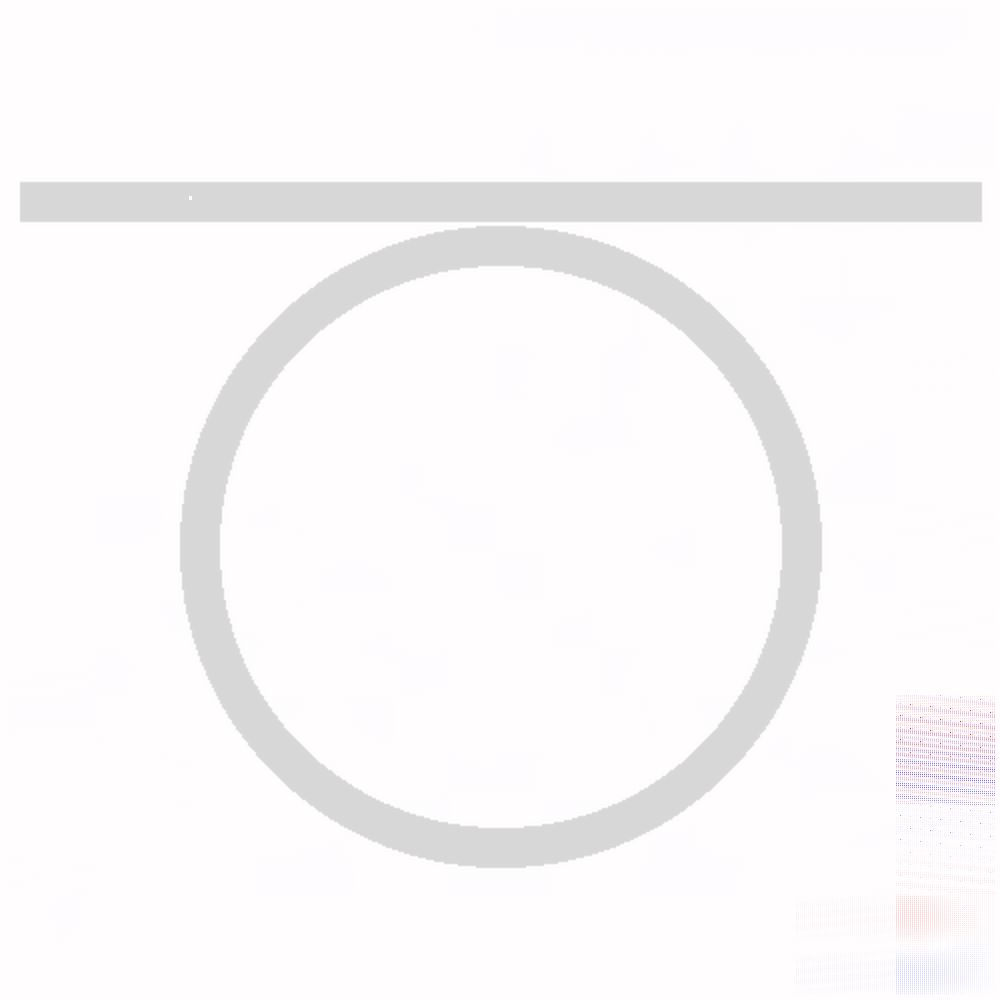
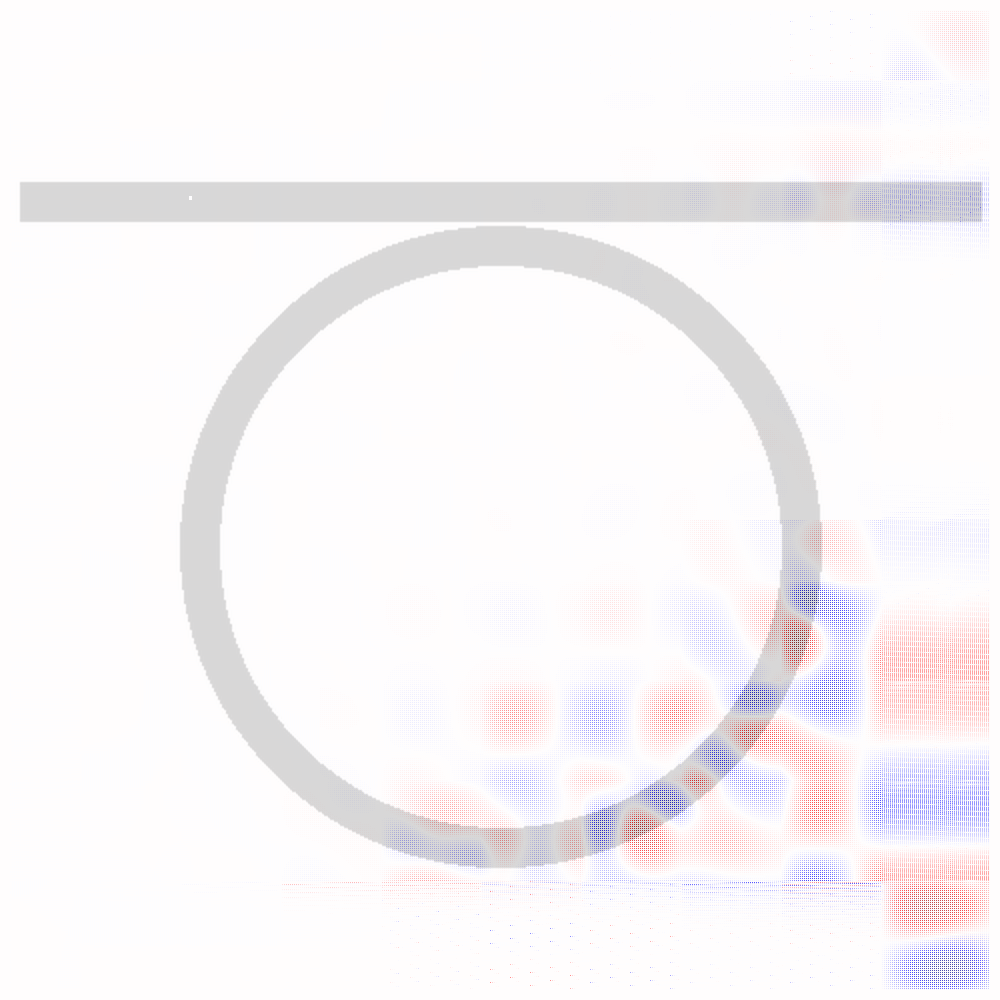
sort of working impl of tiling???

diff --git a/python-src/fdfd.py b/python-src/fdfd.py
@@ -84,21 +84,103 @@ def plot_nonzero(A):
     plt.close()
 
 
-def _solve_patch(eps, mu, dx, dy, omega, source, pml_thickness=5):
-    """Direct FDFD solve on one patch *including* its local PML."""
+def _extract_dirichlet_bc(sol_patch: np.ndarray, halo: int):
+    """Return (top, bottom, left, right) field arrays from the outermost ring."""
+    top = sol_patch[halo, halo:-halo].copy()
+    bottom = sol_patch[-halo - 1, halo:-halo].copy()
+    left = sol_patch[halo:-halo, halo].copy()
+    right = sol_patch[halo:-halo, -halo - 1].copy()
+    return top, bottom, left, right
 
+
+def _solve_patch(
+    eps,
+    mu,
+    dx,
+    dy,
+    omega,
+    source,
+    *,
+    pml_thickness: int = 5,
+    dirichlet_bc=None,  # NEW – pass (top, bottom, left, right) or None
+):
+    """
+    Direct FDFD solve on one patch *including* its local PML.
+
+    Parameters
+    ----------
+    dirichlet_bc : None | tuple[np.ndarray, np.ndarray, np.ndarray, np.ndarray]
+        Fixed Ez values on the outermost cell ring (top, bottom, left, right).
+        Each array is 1-D and already matches the length of that edge.
+        If None (default) no extra Dirichlet rows are imposed.
+    """
+    # ------------------------------------------------------------------
+    # 0. basic checks
+    # ------------------------------------------------------------------
     assert eps.shape == mu.shape == source.shape, "shape mismatch"
+    Nx, Ny = eps.shape
+    halo = pml_thickness
 
+    # ------------------------------------------------------------------
+    # 1. Assemble the standard Helmholtz matrix for this patch
+    # ------------------------------------------------------------------
     A = make_A(
         eps,
         mu,
         dx,
         dy,
-        *eps.shape,
+        Nx,
+        Ny,
         omega,
         pml_thickness=pml_thickness,
     )
-    b = -1j * omega * source.ravel()
+    b = (-1j * omega * source).ravel()  # column vector
+
+    # ------------------------------------------------------------------
+    # 2. Impose Dirichlet rows if requested
+    # ------------------------------------------------------------------
+    if dirichlet_bc is not None:
+        top, bottom, left, right = dirichlet_bc
+        A = A.tolil()  # easier to edit rows
+        idx = lambda i, j: i * Ny + j  # 2-D → 1-D mapping
+
+        # --- top edge (y = halo) ---
+        i = halo
+        for j, val in zip(range(halo, Ny - halo), top):
+            k = idx(i, j)
+            A.rows[k] = [k]
+            A.data[k] = [1.0]
+            b[k] = val
+
+        # --- bottom edge (y = Ny-halo-1) ---
+        i = Nx - halo - 1
+        for j, val in zip(range(halo, Ny - halo), bottom):
+            k = idx(i, j)
+            A.rows[k] = [k]
+            A.data[k] = [1.0]
+            b[k] = val
+
+        # --- left edge (x = halo) ---
+        j = halo
+        for i, val in zip(range(halo, Nx - halo), left):
+            k = idx(i, j)
+            A.rows[k] = [k]
+            A.data[k] = [1.0]
+            b[k] = val
+
+        # --- right edge (x = Ny-halo-1) ---
+        j = Ny - halo - 1
+        for i, val in zip(range(halo, Nx - halo), right):
+            k = idx(i, j)
+            A.rows[k] = [k]
+            A.data[k] = [1.0]
+            b[k] = val
+
+        A = A.tocsc()  # back to efficient format
+
+    # ------------------------------------------------------------------
+    # 3. Direct solve
+    # ------------------------------------------------------------------
     Ez = scipy.sparse.linalg.spsolve(A, b).reshape(eps.shape)
     return Ez
 
@@ -115,32 +197,28 @@ def run_fdfd(
     source,
     *,
     patch_size: int = 100,
-    padding: int = 10,
-    pml_thickness: int = 5,
+    padding: int = 30,
+    pml_thickness: int = 10,  # ↑ a bit thicker for better BCs
 ):
     """
-    Solve the 2‑D FDFD problem by tiling the domain into partially
-    overlapping patches (each including its own PML halo).
-
-    * Every patch is clamped to the simulation window – no negative
-      indices are produced.
-    * Patches that would collapse to zero (smaller than twice the halo
-      thickness in either dimension) are skipped.
-    * When the local solution is written back only the interior
-      (everything outside the PML halo) is copied, so the public halo
-      width naturally follows ``pml_thickness``.
+    One-pass tiled FDFD solve with correct RHS and Dirichlet halo exchange.
+    Everything else (patch layout, ordering) matches your original draft.
     """
-
     Nx, Ny = eps.shape
     assert eps.shape == mu.shape == source.shape, "shape mismatch"
 
+    halo = pml_thickness
+    inner = slice(halo, -halo or None)  # interior slice within a patch
+    orig_source = source.copy()  # fixed RHS
+    solution = np.zeros_like(source)  # start from zero field
+
     # ------------------------------------------------------------------
-    # 1. Generate a regular grid of patch centres.
+    # 1. Generate patches exactly as before
     # ------------------------------------------------------------------
     x_centers = range(patch_size // 2, Nx, patch_size)
     y_centers = range(patch_size // 2, Ny, patch_size)
 
-    patches = []  # type: list[Patch]
+    patches = []
     for cx in x_centers:
         for cy in y_centers:
             x_min = max(0, cx - patch_size // 2 - padding)
@@ -148,129 +226,70 @@ def run_fdfd(
             y_min = max(0, cy - patch_size // 2 - padding)
             y_max = min(Ny, cy + patch_size // 2 + padding)
 
-            # Discard degenerate patches (need room for two halos).
-            if (x_max - x_min) <= 2 * pml_thickness or (
-                y_max - y_min
-            ) <= 2 * pml_thickness:
+            if (x_max - x_min) <= 2 * halo or (y_max - y_min) <= 2 * halo:
                 continue
-
-            patches.append(Patch((x_min, y_min), (x_max, y_max)))
+            patches.append(((x_min, y_min), (x_max, y_max)))
 
     # ------------------------------------------------------------------
-    # 2. Label patches by topological distance from any that contain the
-    #    *non‑zero* part of the source in their *interior* region.
+    # 2. Distance-sort outward from any patch whose *interior* touches RHS
     # ------------------------------------------------------------------
-    source_patches = set()
-    patches_with_dist = []
-
-    halo = pml_thickness  # shorthand
+    source_bool = orig_source != 0
+    patches_with_dist, frontier, visited = [], set(), set()
 
     for idx, patch in enumerate(patches):
-        (x_min, y_min), (x_max, y_max) = patch
-        # interior region excludes the padding / halo
-        ix_min, ix_max = x_min + halo, x_max - halo
-        iy_min, iy_max = y_min + halo, y_max - halo
-
-        # Clamp to valid domain before indexing.
-        xs = slice(ix_min, ix_max)
-        ys = slice(iy_min, iy_max)
-
-        if np.any(source[xs, ys] != 0):
-            source_patches.add(idx)
+        (a0, b0), (a1, b1) = patch
+        if np.any(source_bool[a0 + halo : a1 - halo, b0 + halo : b1 - halo]):
             patches_with_dist.append((patch, 0))
+            frontier.add(idx)
+            visited.add(idx)
 
-    # Breadth‑first search to propagate outward.
-    visited = set(source_patches)
-    frontier = set(source_patches)
-    current_d = 0
+    d = 0
     while frontier and len(visited) < len(patches):
-        current_d += 1
-        next_frontier = set()
-
+        d += 1
+        nxt = set()
         for i in frontier:
-            (x1_min, y1_min), (x1_max, y1_max) = patches[i]
-
+            (x0, y0), (x1, y1) = patches[i]
             for j, p2 in enumerate(patches):
-                if j in visited:
+                if j in visited:  # already labelled
                     continue
-                (x2_min, y2_min), (x2_max, y2_max) = p2
-
-                # axis‑aligned bounding boxes overlap → adjacency
-                if (
-                    x1_min <= x2_max
-                    and x2_min <= x1_max
-                    and y1_min <= y2_max
-                    and y2_min <= y1_max
-                ):
+                (u0, v0), (u1, v1) = p2
+                if x0 <= u1 and u0 <= x1 and y0 <= v1 and v0 <= y1:
                     visited.add(j)
-                    next_frontier.add(j)
-                    patches_with_dist.append((p2, current_d))
+                    nxt.add(j)
+                    patches_with_dist.append((p2, d))
+        frontier = nxt
 
-        frontier = next_frontier
-
-    # Ensure distance‑sorted order.
-    patches_with_dist.sort(key=lambda t: t[1])
+    patches_with_dist.sort(key=lambda t: t[1])  # ensure outward order
 
     # ------------------------------------------------------------------
-    # 3. Patch‑wise solves, writing back only the inner region.
+    # 3. Single outward sweep
     # ------------------------------------------------------------------
-    solution = source.copy()
+    for patch, _dist in patches_with_dist:
+        (x0, y0), (x1, y1) = patch
 
-    inner_src = slice(halo, -halo or None)
+        # materials & RHS
+        p_eps = eps[x0:x1, y0:y1]
+        p_mu = mu[x0:x1, y0:y1]
+        p_source = orig_source[x0:x1, y0:y1]
 
-    for patch_idx, (patch, _dist) in enumerate(patches_with_dist):
-        (x_min, y_min), (x_max, y_max) = patch
+        # current global field over the patch → Dirichlet ring
+        sol_patch = solution[x0:x1, y0:y1]
+        bc = _extract_dirichlet_bc(sol_patch, halo)
 
-        # Plot current patch being solved
-        plt.figure(figsize=(12, 5))
-        plt.subplot(121)
-        plt.imshow(np.abs(solution), cmap="viridis")
-        plt.colorbar(label="|Ez|")
-        plt.title(f"Solution before patch {patch_idx}")
-
-        # Highlight current patch
-        rect = plt.Rectangle(
-            (y_min, x_min),
-            y_max - y_min,
-            x_max - x_min,
-            fill=False,
-            color="red",
-            linewidth=2,
-        )
-        plt.gca().add_patch(rect)
-
-        patch_eps = eps[x_min:x_max, y_min:y_max]
-        patch_mu = mu[x_min:x_max, y_min:y_max]
-        patch_source = solution[x_min:x_max, y_min:y_max]
-
-        patch_sol = _solve_patch(
-            patch_eps, patch_mu, dx, dy, omega, patch_source, pml_thickness=halo
+        # local solve (needs new kw-arg)
+        p_sol = _solve_patch(
+            p_eps,
+            p_mu,
+            dx,
+            dy,
+            omega,
+            p_source,
+            pml_thickness=halo,
+            dirichlet_bc=bc,  # ← NEW
         )
 
-        solution[
-            x_min + halo : x_max - halo,
-            y_min + halo : y_max - halo,
-        ] = patch_sol[inner_src, inner_src]
-
-        # Plot solution after solving this patch
-        plt.subplot(122)
-        plt.imshow(np.abs(solution), cmap="viridis")
-        plt.colorbar(label="|Ez|")
-        plt.title(f"Solution after patch {patch_idx}")
-
-        # Highlight current patch
-        rect = plt.Rectangle(
-            (y_min, x_min),
-            y_max - y_min,
-            x_max - x_min,
-            fill=False,
-            color="red",
-            linewidth=2,
-        )
-        plt.gca().add_patch(rect)
-
-        plt.tight_layout()
-        plt.show()
+        # overwrite interior (no relaxation)
+        solution[x0 + halo : x1 - halo, y0 + halo : y1 - halo] = p_sol[inner, inner]
 
     return solution
 
